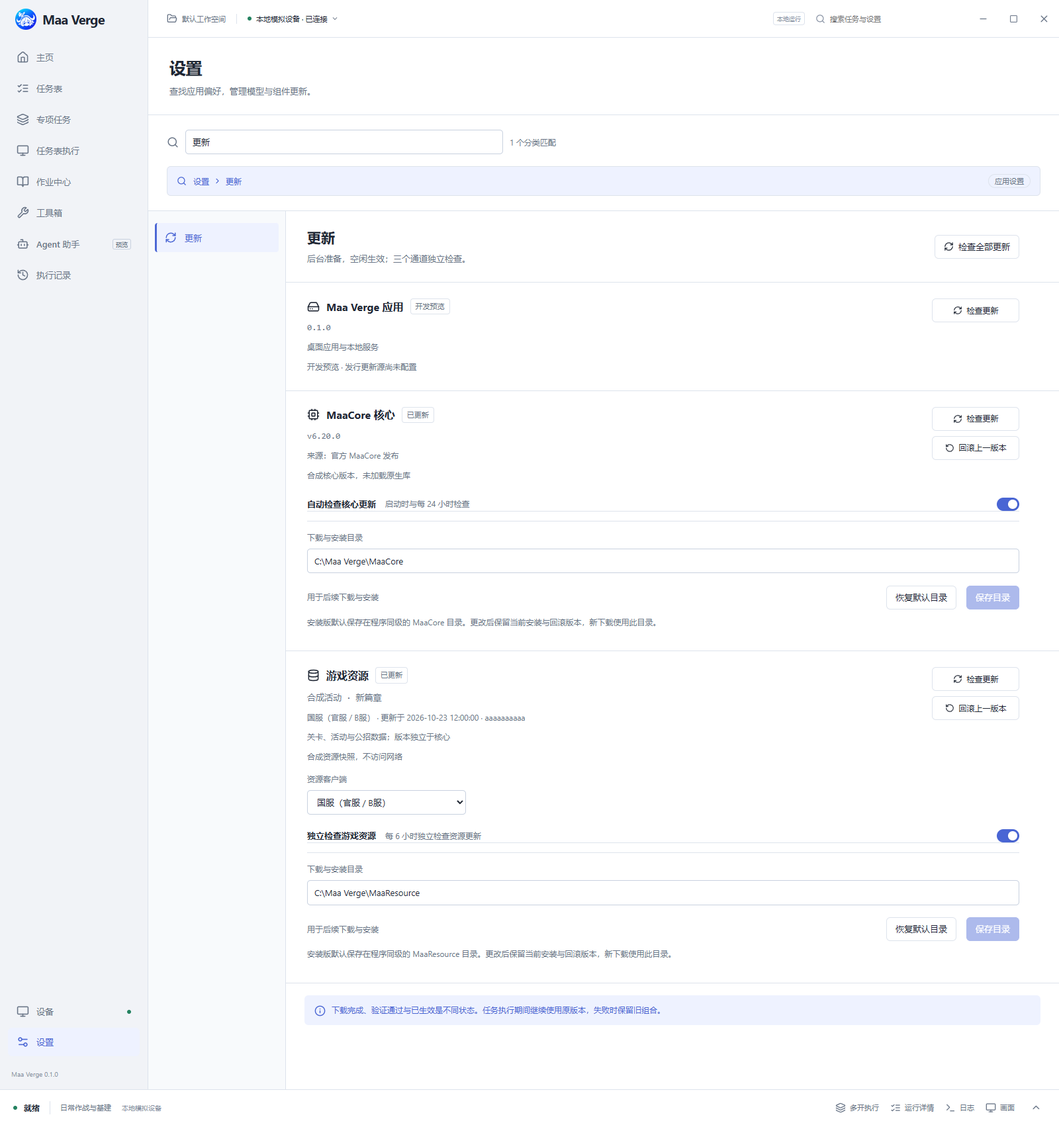
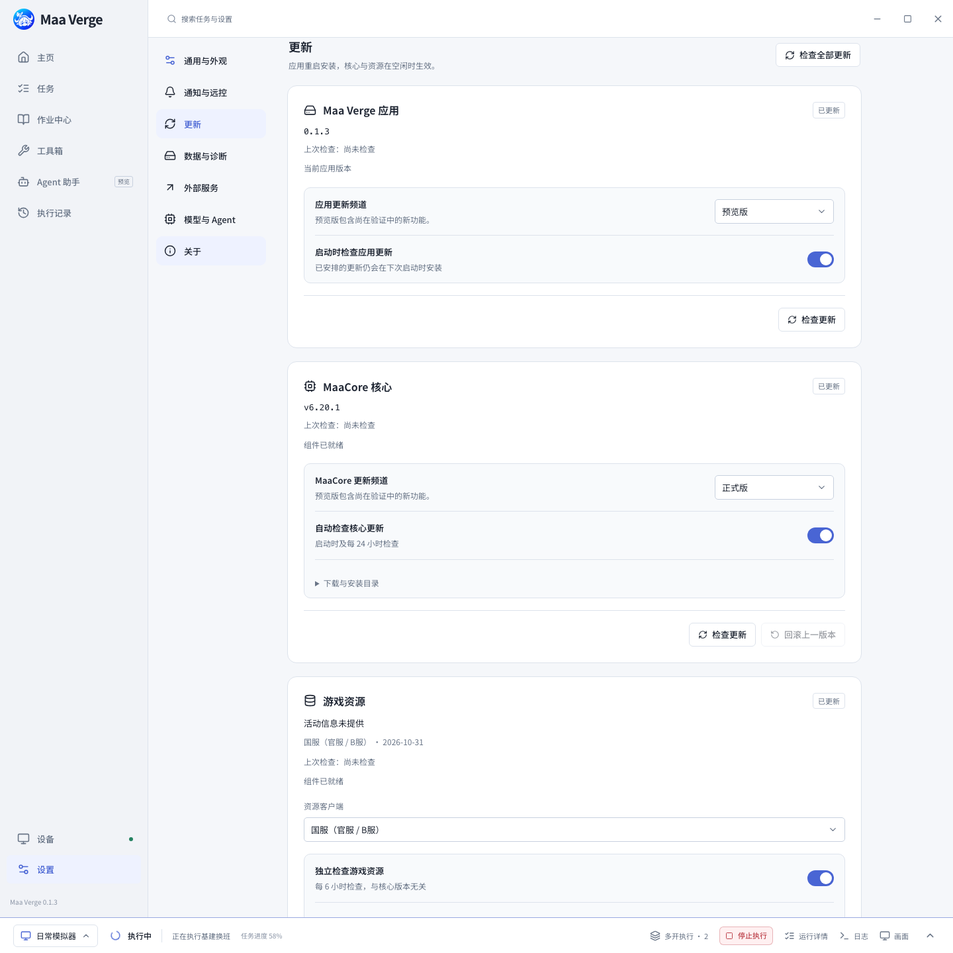
chore(release): 准备正式版并更新使用说明与截图

diff --git a/README.md b/README.md
@@ -13,144 +13,168 @@
   <a href="https://github.com/DeathofBrain/maa-verge/issues">反馈问题</a>
 </p>
 
-Maa Verge 是一款免费开源的明日方舟桌面助手，基于 [MAA](https://github.com/MaaAssistantArknights/MaaAssistantArknights) 的自动化核心。你可以把基建、公招、自动作战等日常安排成任务表，连接模拟器后手动开始，并在软件中查看进度和执行记录。
+Maa Verge 是一款面向 **Windows、macOS 和 Linux** 的免费开源明日方舟桌面助手，基于 [MAA](https://github.com/MaaAssistantArknights/MaaAssistantArknights) 的自动化核心。把基建、公招、自动作战等日常安排成任务表，在一个窗口中连接多个模拟器实例，为各设备选择任务、查看进度并分别停止执行。
 
-> 当前提供 **[v0.1.2 正式版](https://github.com/DeathofBrain/maa-verge/releases/tag/v0.1.2)**，本页的安装与使用说明以该发行版为准。Agent 和部分上游功能仍在开发，完整更新与已知限制见 [版本说明](https://github.com/DeathofBrain/maa-verge/blob/v0.1.2/docs/releases/v0.1.2.md)。
+> 当前版本为 **[v0.1.3 正式版](https://github.com/DeathofBrain/maa-verge/releases/tag/v0.1.3)**，带来新的任务中心、多设备执行监控、作业库与下载更新体验。完整变化和验证边界见[版本说明](https://github.com/DeathofBrain/maa-verge/blob/v0.1.3/docs/releases/v0.1.3.md)。
 
-> 也可体验 **[v0.1.3-alpha.1 预览版](https://github.com/DeathofBrain/maa-verge/releases/tag/v0.1.3-alpha.1)**，包含新的任务中心、设备监控、作业库和下载更新体验。预览版的安装包与界面有调整，升级前请阅读下方预览版说明及[完整版本说明](https://github.com/DeathofBrain/maa-verge/blob/v0.1.3-alpha.1/docs/releases/v0.1.3-alpha.1.md)。
+> **Agent 功能将于后续 v1.0.0 版本推出，敬请期待。** 当前版本暂不提供 AI 托管或视觉自主操作。
 
 ## 下载与安装
 
-从 **[GitHub Releases](https://github.com/DeathofBrain/maa-verge/releases)** 下载软件，也可以点击下表直接下载 v0.1.2 安装包。
+从 **[GitHub Releases](https://github.com/DeathofBrain/maa-verge/releases)** 选择系统与架构，或直接下载下表中的 v0.1.3 安装包。
 
-本项目也已接入 [Mirror酱](https://mirrorchyan.com?source=maa_verge_readme)分发。**Mirror酱在用户端的高速下载是付费服务，需要有效 CDK**；Maa Verge 本身免费开源，GitHub 官方免费下载继续保留。当前开发源码新增的「设置 → 更新 → Mirror酱」共用 CDK 配置及 MaaCore / MaaResource 对应关系见[服务说明](docs/mirrorchyan.md)，这些新增设置尚未包含在上述已发布版本中。
+| 系统目标                                      | 安装包                                                                                                                                                                                                                        | 安装方式                                                   |
+| --------------------------------------------- | ----------------------------------------------------------------------------------------------------------------------------------------------------------------------------------------------------------------------------- | ---------------------------------------------------------- |
+| Windows 10 / 11 · x64                         | [EXE（推荐）](https://github.com/DeathofBrain/maa-verge/releases/download/v0.1.3/Maa-Verge_0.1.3_x64-setup.exe) / [完整 ZIP](https://github.com/DeathofBrain/maa-verge/releases/download/v0.1.3/Maa-Verge_0.1.3_x64-full.zip) | 运行安装程序；ZIP 完全解压到可写目录后运行 `Maa Verge.exe` |
+| macOS 15+ · Apple Silicon（M 系列）           | [DMG · aarch64](https://github.com/DeathofBrain/maa-verge/releases/download/v0.1.3/Maa-Verge_0.1.3_aarch64.dmg)                                                                                                               | 打开映像，将应用拖入「应用程序」                           |
+| macOS 15+ · Intel                             | [DMG · x64](https://github.com/DeathofBrain/maa-verge/releases/download/v0.1.3/Maa-Verge_0.1.3_x64.dmg)                                                                                                                       | 打开映像，将应用拖入「应用程序」                           |
+| Linux · x64（以 Ubuntu 22.04 / 24.04 为目标） | [AppImage](https://github.com/DeathofBrain/maa-verge/releases/download/v0.1.3/Maa-Verge_0.1.3_amd64.AppImage)                                                                                                                 | 赋予执行权限后运行                                         |
 
-v0.1.3-alpha.1 预览版最低支持 **macOS 15（Sequoia）**，适用于 Apple Silicon 和 Intel；当前源码及后续发行包按此要求构建。v0.1.2 正式版的历史构建目标仍为 macOS 13.5。
+Release 页的安装包位于 **Assets**；**Source code** 为源码归档，普通使用无需下载。下载后可用 [SHA256SUMS.txt](https://github.com/DeathofBrain/maa-verge/releases/download/v0.1.3/SHA256SUMS.txt) 核对文件。
 
-| 系统                                | 安装包                                                                                                                                                                                                                                                                                                                       | 安装方式                                                        |
-| ----------------------------------- | ---------------------------------------------------------------------------------------------------------------------------------------------------------------------------------------------------------------------------------------------------------------------------------------------------------------------------- | --------------------------------------------------------------- |
-| Windows x64                         | [EXE（推荐）](https://github.com/DeathofBrain/maa-verge/releases/download/v0.1.2/Maa-Verge_0.1.2_x64-setup.exe) / [MSI](https://github.com/DeathofBrain/maa-verge/releases/download/v0.1.2/Maa-Verge_0.1.2_x64_zh-CN.msi)                                                                                                    | 下载后运行安装程序                                              |
-| macOS 15+ · Apple Silicon（M 系列） | [DMG · aarch64](https://github.com/DeathofBrain/maa-verge/releases/download/v0.1.2/Maa-Verge_0.1.2_aarch64.dmg)                                                                                                                                                                                                              | 打开后将应用拖入「应用程序」                                    |
-| macOS 15+ · Intel                   | [DMG · x64](https://github.com/DeathofBrain/maa-verge/releases/download/v0.1.2/Maa-Verge_0.1.2_x64.dmg)                                                                                                                                                                                                                      | 打开后将应用拖入「应用程序」                                    |
-| Linux x64                           | [AppImage](https://github.com/DeathofBrain/maa-verge/releases/download/v0.1.2/Maa-Verge_0.1.2_amd64.AppImage) / [DEB](https://github.com/DeathofBrain/maa-verge/releases/download/v0.1.2/Maa-Verge_0.1.2_amd64.deb) / [RPM](https://github.com/DeathofBrain/maa-verge/releases/download/v0.1.2/Maa-Verge-0.1.2-1.x86_64.rpm) | AppImage 赋予执行权限后运行；DEB / RPM 使用系统软件包管理器安装 |
+- **游戏与模拟器**：自行安装安卓模拟器和明日方舟，开启 ADB 调试，并完成游戏登录。
+- **首次组件准备**：Windows EXE 默认勾选 MaaCore 与 MaaResource，可按需取消；完整 ZIP 已包含两者。首次启动会校验并导入随附组件。未附带组件时，以及 macOS / Linux 首次使用时，需要联网下载核心和资源，无需另装 Python、Node.js、Bun 或下载工具。
+- **系统依赖**：Windows 使用 WebView2，缺少时安装程序会引导安装，ZIP 用户需自行准备；Linux 需要系统 WebKit / GTK 等桌面库及 AppImage 所需的 FUSE，其他发行版需自行确认依赖。
 
-在 Release 页面下载时，安装包位于 **Assets** 中。**Source code** 是源码压缩包，普通使用无需下载；[SHA256SUMS.txt](https://github.com/DeathofBrain/maa-verge/releases/download/v0.1.2/SHA256SUMS.txt) 可用于核对下载文件。
+Windows 安装包尚无发布者签名；macOS 采用完整的本地签名（ad-hoc），尚无 Developer ID 签名与公证。macOS 首次打开可能需要在「系统设置 → 隐私与安全性」选择「仍要打开」，详见[安装与首次放行](https://github.com/DeathofBrain/maa-verge/blob/v0.1.3/docs/app-updates.md#macos-签名与首次放行)。应用内更新另有更新签名校验，两者用途不同。
 
-安装前请准备好：
-
-- **模拟器与游戏**：自行安装安卓模拟器和明日方舟，在模拟器设置中开启 ADB 调试。
-- **网络连接**：首次运行需要下载 MaaCore 和游戏资源，软件会自动准备，无需手动安装核心，也无需安装 Python、Node.js 或 Bun。
-- **系统组件**：Windows 使用 WebView2，缺少时安装程序会引导安装；Linux 需要系统 WebView 与桌面库，目前以 Ubuntu 22.04 / 24.04 x64 为目标，其他发行版需自行确认依赖。
-
-Windows 安装包尚无发布者签名；macOS 已采用完整的本地签名（ad-hoc），但尚无 Developer ID 签名与公证，首次打开可能需要在「系统设置 → 隐私与安全性」明确放行，详见 [macOS 安装说明](https://github.com/DeathofBrain/maa-verge/blob/v0.1.2/docs/app-updates.md#macos-签名与首次放行)。应用内更新会校验独立的更新签名；这与系统发布者签名不同。各平台的已知限制见版本说明。
-
-<details>
-<summary>体验 v0.1.3-alpha.1 预览版</summary>
-
-从[预览版 Release](https://github.com/DeathofBrain/maa-verge/releases/tag/v0.1.3-alpha.1) 下载对应系统与架构的安装包，包型及完整下载表见[本版下载与安装说明](https://github.com/DeathofBrain/maa-verge/blob/v0.1.3-alpha.1/docs/releases/v0.1.3-alpha.1.md#下载与安装)。Windows 提供 EXE 与完整 ZIP，不再提供 MSI；macOS 需要 15 或更新版本，Linux 继续提供 AppImage、DEB 与 RPM。
-
-- **安装与升级**：完全退出旧版，备份整个 `config` 和已有作业 JSON 目录。Windows EXE 默认选中 MaaCore 与 MaaResource 离线组件，可按需取消；完整 ZIP 包含两者，完全解压到可写目录后运行 `Maa Verge.exe`。首次启动会校验并导入随附组件；未附带组件时仍需联网下载。旧 MSI 用户须先卸载旧版，再安装 EXE 或使用 ZIP；安装过未公开的 `v0.1.3-alpha1` 测试包时，请手动安装本版。升级渠道与备份细节见[升级说明](https://github.com/DeathofBrain/maa-verge/blob/v0.1.3-alpha.1/docs/releases/v0.1.3-alpha.1.md#升级说明)。
-- **任务与设备**：从「任务」管理任务表，勾选后点击「运行」，在同页「执行监控」查看设备进度；底栏左侧切换设备后，可打开对应运行详情、日志与画面。
-- **下载与更新**：应用、MaaCore 和游戏资源统一使用内置 HTTP 下载，无需 aria2。在「设置 → 更新 → 下载代理」选择自动、手动 HTTP/HTTPS 代理或直连，下载时显示速度并支持续传。应用更新下载校验后可选择「立即更新并重启」或「下次启动时更新」；后者需真正退出并重新打开，最小化到托盘不会安装。ZIP 版仍需手动更新，详见[本版更新说明](https://github.com/DeathofBrain/maa-verge/blob/v0.1.3-alpha.1/docs/app-updates.md)。
-
-预览版 Agent 仍暂不可用，真实游戏与各平台升级的验证范围见[已知问题与限制](https://github.com/DeathofBrain/maa-verge/blob/v0.1.3-alpha.1/docs/releases/v0.1.3-alpha.1.md#已知问题与限制)。下文功能与操作步骤继续以 v0.1.2 正式版为准。
-
-</details>
+也可在「设置 → 更新 → Mirror酱」配置 [Mirror酱](https://mirrorchyan.com?source=maa_verge_readme)。**Mirror酱用户端的高速下载是付费服务，需要有效 CDK**；Maa Verge 本身免费开源，GitHub 官方免费下载继续保留，详见[服务说明](https://github.com/DeathofBrain/maa-verge/blob/v0.1.3/docs/mirrorchyan.md)。
 
 ## 能做什么
 
-- **安排日常任务**：在同一张表中添加、复制和排序任务，分别设置参数，按需启用或关闭；编辑后自动保存，常用操作也可通过右键菜单完成。
-- **管理与执行作业**：在「作业中心」导入本地或 PRTS Plus 的普通、保全、悖论作业及作业集，查看详情、安排独立队列并保留来源署名。
-- **同时监控多次执行**：在总览中筛选和搜索任务表、设备与执行结果，逐个查看进度、材料掉落、基建反馈与失败原因，分别停止任务；模拟器画面按需打开。
-- **管理模拟器多开**：为各实例保存连接配置，分别开始任务、查看进度和停止执行。
-- **下载与更新**：v0.1.2 内置 aria2，组件下载中断后可重试续传；应用、MaaCore 和游戏资源分别更新，组件更新在空闲时生效。
-- **使用独立工具**：在「工具箱」选择设备，识别仓库与干员、计算公招标签或按目标补货，查看上次成功采集的数据并导出 JSON、Markdown、CSV 等格式。
-- **设置每日定时**：为已保存的任务表选择设备和时间，按电脑本地时间每天执行；Windows 还提供默认关闭的提前唤醒选项。
-- **保留本地记录**：任务表、设置与执行记录保存在本机；主页提供近期执行、活动日历和组件版本，支持浅色与深色主题。
+- **安排日常任务**：创建、复制和排序任务表，逐项设置参数与启停状态；编辑后自动保存，常用操作可通过右键菜单完成。
+- **在一个窗口中管理多开**：保存各模拟器实例的连接设置，一张任务表可在多个设备上独立执行，也可为不同设备安排不同任务表。
+- **按设备查看执行**：在「任务 → 执行监控」切换设备，查看任务进度、材料掉落、基建反馈与失败原因；底栏随时打开运行详情、日志和画面，支持单独或批量停止。
+- **管理与执行作业**：从本地 JSON 或 PRTS Plus 预览导入普通、保全、悖论作业与作业集，整理本地分类、批量入队，保留来源署名并查看干员需求。
+- **使用工具与每日定时**：识别仓库与干员、计算公招标签、按目标补货，为已保存的任务表安排每日执行；识别结果保留采集时间并可导出。
+- **分别更新软件、核心和资源**：统一下载代理、进度与安全续传，核心和资源在设备空闲时生效；本地保存任务表、设置和执行记录，支持浅色与深色主题。
 
-> **Agent 助手是后续主要开发目标之一，目前暂不可用，敬请谅解。**
+> **基建估算目前为草稿模块，更多、更全面的功能尚待开发。**
+
+### 平台与模拟器
+
+三平台共用任务表、作业库和多设备管理界面，**通用连接方式为 ADB**；具体模拟器能否使用，还取决于它在对应系统上的版本与 ADB 支持。
+
+| 模拟器 / 连接方式                  | 当前接入能力                                                   | 使用边界                                                                            |
+| ---------------------------------- | -------------------------------------------------------------- | ----------------------------------------------------------------------------------- |
+| Windows MuMu                       | 读取已启动实例的名称、编号与实际 ADB 地址，可自动配置增强截图  | 支持不同安装目录和非默认端口；增强截图需匹配本机 SDK 与实例                         |
+| Windows 雷电                       | 根据实例信息及端口归属发现设备，可自动配置增强截图             | 需匹配运行实例与本机 SDK；真实设备验收仍待完成                                      |
+| BlueStacks、夜神等 ADB 模拟器      | 查找常见 ADB 路径及已知本机地址；BlueStacks 可读取实例端口配置 | 自动识别失败时手动填写地址与 ADB，具体系统和版本需自行确认                          |
+| 其他可通过 ADB 访问的模拟器 / 设备 | Windows、macOS、Linux 均可手动配置连接                         | 增强截图仅适用于上述 Windows MuMu / 雷电；PlayCover 与 Windows 原生游戏窗口尚未接入 |
+
+当前实机记录覆盖**一个 Windows MuMu 实例的连接与增强截图**；真实多开、雷电、不同游戏客户端及 macOS / Linux 的设备操作仍待分别验收。平台目标与合成测试通过不代表所有模拟器均已实测，详细条件见[连接说明](https://github.com/DeathofBrain/maa-verge/blob/v0.1.3/docs/emulator-connection.md)与[多开说明](https://github.com/DeathofBrain/maa-verge/blob/v0.1.3/docs/multi-instance.md)。Maa Verge 管理的是已启动实例，不自动创建或启停模拟器。
 
 ### 界面预览
 
-以下均为测试数据截图，不含真实账号信息。主页与任务表截图来自 v0.1.0，展示基础布局；执行监控截图展示 v0.1.1 界面。
+以下图片均为 **v0.1.3 的合成测试数据截图**，不含真实账号信息，不代表真实设备或游戏执行结果。
 
-![Maa Verge 主页：执行记录、活动日历与设备状态](docs/images/mock-workspace.png)
+![Maa Verge 主页：近期执行、活动日历与设备状态](docs/images/mock-workspace.png)
 
 <details>
-<summary>任务表：安排任务与设置作战参数</summary>
+<summary>任务中心：配置任务表与查看多设备执行</summary>
 
-![任务表与自动作战设置](docs/images/mock-task-preparation.png)
+![任务中心与任务详情](docs/images/mock-task-preparation.png)
+
+![多设备执行监控](docs/images/mock-execution-monitor.png)
 
 </details>
 
 <details>
-<summary>执行监控：同时查看多张任务表与不同设备</summary>
+<summary>作业中心与模拟器实例配置</summary>
 
-![任务表执行监控总览](docs/images/mock-execution-monitor.png)
+![作业中心：社区搜索、导入记录与执行队列](docs/images/mock-copilot-center.png)
+
+![多模拟器实例配置](docs/images/mock-devices.png)
+
+</details>
+
+<details>
+<summary>软件、核心与游戏资源更新</summary>
+
+![组件更新与下载设置](docs/images/mock-component-updates.png)
+
+</details>
+
+<details>
+<summary>Windows、macOS 与 Linux 界面</summary>
+
+以下为同一测试场景在 Chromium 中模拟平台差异的界面展示，不代表在三个系统上的原生运行或实机验证。
+
+![Windows 平台界面展示](docs/images/mock-platform-windows.png)
+
+![macOS 平台界面展示](docs/images/mock-platform-macos.png)
+
+![Linux 平台界面展示](docs/images/mock-platform-linux.png)
 
 </details>
 
 ## 快速开始
 
-1. **启动模拟器**。确认已安装游戏、开启 ADB 调试，并完成需要手动处理的登录。
-2. **打开 Maa Verge**。首次运行等待 MaaCore 与基础资源下载安装完成，可在「设置 → 更新」查看状态。
-3. **连接设备**。进入「设备 → 当前设备」，点击「自动连接模拟器」，或先「发现设备」再连接对应条目。多开时在「多开管理」保存各实例配置，并核对当前选择的设备。
-4. **配置任务表**。进入「任务表」，通过侧栏「添加任务表」（＋）创建，按需启停各项任务，检查游戏客户端、关卡、次数及理智药和源石数量；编辑后自动保存，开始前确认顶部显示「已保存」。
-5. **开始日常**。点击「开始日常」，开始后在「任务表执行」查看本次详情，点击「返回监控总览」可同时查看各设备的执行。底部「画面」可打开预览，「停止执行」会结束当前队列，历史结果保存在「执行记录」中。
+1. **启动模拟器**。开启 ADB 调试，打开游戏并完成需要手动处理的登录。
+2. **打开 Maa Verge**。等待首次组件准备完成，可在「设置 → 更新」查看状态。
+3. **连接设备**。进入「设备」，点击「发现设备」并连接对应条目，也可使用自动连接。多开时通过「管理多开」保存各实例设置，核对实例名称、地址与当前设备。
+4. **配置任务表**。进入「任务」，点击「新建任务表」，添加并安排任务，检查客户端、关卡、次数及理智药和源石数量；编辑后自动保存，开始前确认显示「已保存」。
+5. **开始与查看结果**。点击任务表的「开始执行」，选择设备；也可勾选多张表后点击「运行」。在「执行监控」查看各设备状态，通过底栏打开日志与画面，历史结果保存在「执行记录」。
 
-新建任务默认不使用理智药或源石，需要时在自动作战任务中明确设置数量。未配置定时计划时，任务需要手动开始；如需每天自动执行，请在已保存任务表的「定时计划」中明确选择设备和时间。
+新建任务默认不使用理智药或源石，使用前须明确设置数量。消耗额度按**每次执行**分别授权，同一张表在多个设备运行时，各次执行会分别使用自己的额度。**停止会结束并清空当前原生任务队列，不支持暂停后续跑。**
 
-使用多开时，先在模拟器管理器中启动各实例，连接后从「任务表执行 → 实例启动」或底部「多开执行」为设备选择任务表并开始。同一设备请只交给一个助手控制。
+要在多个实例上运行同一张任务表，可在启动窗口多选设备；常用组合可保存为任务表与设备的绑定。每台设备同一时间只能执行一项任务，也请只交给一个助手控制。未配置定时计划时，任务需手动开始。
 
-更多用法：[任务设置](https://github.com/DeathofBrain/maa-verge/blob/v0.1.2/docs/maa-task-settings.md) · [模拟器连接](https://github.com/DeathofBrain/maa-verge/blob/v0.1.2/docs/emulator-connection.md) · [多开说明](https://github.com/DeathofBrain/maa-verge/blob/v0.1.2/docs/multi-instance.md) · [工具箱与定时](https://github.com/DeathofBrain/maa-verge/blob/v0.1.2/docs/toolbox-schedules.md)
+更多用法：[任务设置](https://github.com/DeathofBrain/maa-verge/blob/v0.1.3/docs/maa-task-settings.md) · [设备绑定](https://github.com/DeathofBrain/maa-verge/blob/v0.1.3/docs/task-device-bindings.md) · [多开说明](https://github.com/DeathofBrain/maa-verge/blob/v0.1.3/docs/multi-instance.md) · [工具箱与定时](https://github.com/DeathofBrain/maa-verge/blob/v0.1.3/docs/toolbox-schedules.md)
 
 ## 常见问题
 
 ### 找不到或连不上模拟器怎么办？
 
-确认模拟器已启动、ADB 调试已开启，再到「设备」重新发现并连接。自动识别失败时，可在设备页手动填写连接地址，并选择模拟器自带的 ADB。修改连接配置后，先停止任务、断开，再重新连接。具体设置见 [连接说明](https://github.com/DeathofBrain/maa-verge/blob/v0.1.2/docs/connection-settings.md)。
+确认模拟器已启动、ADB 调试已开启，并处理模拟器里的授权提示，再到「设备」重新发现。自动识别失败时，手动填写连接地址并选择模拟器自带的 ADB。修改配置后先停止任务、断开，再重新连接；增强截图失败时可明确改选 ADB，详见[连接设置](https://github.com/DeathofBrain/maa-verge/blob/v0.1.3/docs/connection-settings.md)。
 
-### MaaCore 或资源下载失败怎么办？
+### 下载失败或速度较慢怎么办？
 
-在「设置 → 更新」查看失败原因，检查网络和目录写入权限，再重试下载。v0.1.2 安装包自带 aria2，无需另行安装；也可以在设置中选择内置 HTTP 下载器。核心与资源默认放在程序同级的 `MaaCore`、`MaaResource` 文件夹，目录不可写时可分别改为可写目录。组件文件被误删或损坏时，先按页面提示修复。
+在「设置 → 更新」查看错误和实际下载来源，检查网络及目录写入权限，再重试。应用、核心和资源共用内置 HTTP 下载及「下载代理」，可选择自动、手动 HTTP/HTTPS 代理或直连；中断后会核对文件来源再尝试续传。Mirror酱为可选付费加速来源，官方免费来源继续保留。
 
 ### 软件、核心和游戏资源怎么更新？
 
-v0.1.1 用户可在「设置 → 更新」下载并校验 v0.1.2，停止任务、关闭实时画面，并等待连接和组件操作空闲后确认「重启并安装」。**v0.1.0 用户须先完全退出应用，再从 [Releases](https://github.com/DeathofBrain/maa-verge/releases) 手动安装 v0.1.2。** macOS v0.1.1 无法启动时，可直接下载对应架构的 v0.1.2 DMG 替换安装；Linux DEB / RPM 继续通过包管理器或安装包更新。
+在「设置 → 更新」分别检查。应用更新下载并校验后，可选择「立即更新并重启」或「下次启动时更新」；后者须真正退出再打开，最小化到托盘不会安装。Windows EXE、macOS DMG、Linux AppImage 使用对应完整安装包更新，ZIP 版须备份后手动更新。
 
-应用和 MaaCore 可分别选择正式版或预览版。MaaCore 与游戏资源各自准备更新，等待空闲生效；核心已经是最新版时，游戏资源仍可能有更新。v0.1.2 的应用更新不支持断点续传，组件下载支持。
+**旧 MSI、Linux DEB / RPM 及仅支持旧更新归档的 macOS 版本需手动迁移一次**，具体步骤见[本版升级说明](https://github.com/DeathofBrain/maa-verge/blob/v0.1.3/docs/releases/v0.1.3.md#升级说明)。安装前完全退出并备份，macOS 需确认系统为 15 或更新版本。
+
+应用、MaaCore 和游戏资源独立管理，核心已是最新版时仍可能有资源更新。核心与资源等待所有设备安全空闲后切换，失败时保留原组合；应用内版本回滚暂不支持。
 
 ### 支持定时执行和 AI 托管吗？
 
-支持每日定时，AI 托管尚未开放。在已保存任务表的「定时计划」中添加设备和时间，应用运行期间会按电脑本地时间触发；普通定时遇到设备忙时跳过，退出或休眠期间错过的触发不补跑。
+支持每日定时，AI 托管尚未开放。在已保存任务表的「定时计划」中选择设备和时间，应用运行期间按电脑本地时间触发；普通定时遇到设备忙时跳过，退出或休眠期间错过的触发不补跑。
 
-Windows 可在该页启用默认关闭的提前唤醒选项，是否真正唤醒受硬件和电源策略影响；macOS / Linux 不支持系统唤醒。实际休眠恢复与定时游戏流程仍待验收，使用与限制见 [工具箱与定时计划](https://github.com/DeathofBrain/maa-verge/blob/v0.1.2/docs/toolbox-schedules.md)。
+Windows 提供默认关闭的提前唤醒选项，受硬件和电源策略影响，实际休眠恢复与定时游戏流程仍待验收；macOS / Linux 不支持系统唤醒。详见[定时使用与限制](https://github.com/DeathofBrain/maa-verge/blob/v0.1.3/docs/toolbox-schedules.md)。**Agent 功能将于后续 v1.0.0 版本推出，敬请期待。**
 
-### 配置和执行记录如何备份？
+### 配置、作业和执行记录如何备份？
 
-先**完全退出应用**，再备份程序目录下的整个 `config` 文件夹。数据库、执行记录和截图位于其中的 `native` 子目录；手动指定过数据目录时，以实际目录为准。macOS 的 `config` 与应用包并列，AppImage 的 `config` 与 AppImage 并列。
+**完全退出应用**后，备份整个 `config` 文件夹，以及自行选择的作业 JSON 目录。默认 `config` 与程序并列：macOS 位于 `.app` 同级，Linux 位于 AppImage 同级；数据库、执行记录和结果截图在其中的 `native` 子目录。使用自定义数据根时以实际位置为准，可在「设置 → 数据与诊断 → 配置文件」查看和选择下次启动的位置，选择目录不会自动搬移旧数据。
 
-从 v0.1.0 升级后，首次启动会在新位置尚无数据库时导入旧数据，并保留旧目录。升级前请先备份旧版的 `MAAVerge/native`：Windows 位于 `%LOCALAPPDATA%`，macOS 位于 `~/Library/Application Support`，Linux 位于 `~/.local/share`（或 `XDG_DATA_HOME` 指定的位置）。程序目录不可写时会提示错误，可使用 `MAAVERGE_DATA_DIR` 指定可写位置，详见 [数据目录与迁移](https://github.com/DeathofBrain/maa-verge/blob/v0.1.2/docs/runtime-migration.md#数据交接与回退)。
+从 v0.1.0 升级或迁移电脑时，请一并保留旧数据和仍被引用的自定义组件目录，详见[数据目录与迁移](https://github.com/DeathofBrain/maa-verge/blob/v0.1.3/docs/runtime-migration.md#数据交接与回退)。
+
+### macOS 卸载后为什么还有核心和资源？
+
+macOS 默认将核心和资源保存在用户的 `Library/Application Support/Maa Verge/`，与应用包分开。可通过「设置 → 关于 → 卸载 Maa Verge」将当前应用及默认组件移到废纸篓，保留配置和自定义目录；直接在 Finder 删除应用不会清理组件。详见[组件目录](https://github.com/DeathofBrain/maa-verge/blob/v0.1.3/docs/maacore-runtime.md#下载与安装目录)。
 
 ### 会向外部服务发送数据吗？
 
-设置与执行记录保存在本机。活动日历、组件下载和更新需要访问对应网络服务；社区作业的搜索、预览和导入会访问 PRTS Plus，手动评价或启用默认关闭的通关后自动点赞会向该服务提交评价。新建自动作战任务的掉落汇报选项与原版 MAA 默认一致，可在任务设置中关闭向企鹅物流和一图流汇报。
+设置与执行记录保存在本机。活动日历、下载和更新会访问相应网络服务；社区作业搜索、预览和导入会访问 PRTS Plus，手动评价或启用默认关闭的通关后自动点赞会向该服务提交评价。新建自动作战任务的掉落汇报与原版 MAA 默认一致，可在任务设置中关闭向企鹅物流和一图流汇报。
 
 ## 遇到问题
 
-欢迎在 **[GitHub Issues](https://github.com/DeathofBrain/maa-verge/issues)** 反馈，请尽量附上：
+欢迎在 **[GitHub Issues](https://github.com/DeathofBrain/maa-verge/issues)** 反馈，请附上：
 
 - 系统版本、Maa Verge 版本，以及设置中显示的 MaaCore 和资源版本。
 - 模拟器名称与版本、复现步骤、预期结果和实际提示。
-- 必要的错误截图与日志。在「设置 → 数据与诊断」中点击「导出日志」，完成提示会显示文件位置；日志保留期和清理也可在该页设置。
+- 必要的错误截图与日志，可在「设置 → 数据与诊断」点击「导出日志」获取。
 
 分享前请检查截图与记录中的账号、凭据和本地路径等个人信息。
 
 ## 参与与致谢
 
-想参与开发或从源码构建，请阅读 [贡献指南](CONTRIBUTING.md) 和 [开发文档](docs/development.md)。开发进展见 [开发状态](docs/STATUS.md)，后续路线见 [项目计划](PLAN.md)。
+参与开发或从源码构建，请阅读[贡献指南](CONTRIBUTING.md)和[开发文档](docs/development.md)。开发进展见[开发状态](docs/STATUS.md)，后续路线见[项目计划](PLAN.md)。
 
-感谢 [MaaAssistantArknights](https://github.com/MaaAssistantArknights/MaaAssistantArknights) 提供的自动化核心，以及 [MaaResource](https://github.com/MaaAssistantArknights/MaaResource) 的游戏资源。
+感谢 [MaaAssistantArknights](https://github.com/MaaAssistantArknights/MaaAssistantArknights) 提供自动化核心，以及 [MaaResource](https://github.com/MaaAssistantArknights/MaaResource) 提供游戏资源。
 
 Maa Verge 采用 [AGPL-3.0-only](LICENSE) 开源协议，是独立社区项目，不代表明日方舟官方或 MaaAssistantArknights 官方客户端。
 

diff --git a/docs/releases/v0.1.3.md b/docs/releases/v0.1.3.md
@@ -1,0 +1,98 @@
+## Maa Verge v0.1.3
+
+本次正式版更新任务中心、多设备执行监控与作业库，并带来统一下载代理、Mirror酱加速和完整安装包更新。
+
+> **重要提示**：升级前请备份配置与作业文件；macOS 最低支持版本为 15（Sequoia），旧 macOS 客户端需手动安装一次新版 DMG。Windows 不再提供 MSI，Linux 不再提供 DEB / RPM。Windows 安装包尚无 Authenticode 发布者签名，macOS 采用 ad-hoc 签名、尚无 Developer ID 签名与公证；应用更新签名与系统发行签名分别管理。
+
+### 下载与安装
+
+| 平台            | 架构                   | 安装包                                                                                                                                                                                                                                      |
+| --------------- | ---------------------- | ------------------------------------------------------------------------------------------------------------------------------------------------------------------------------------------------------------------------------------------- |
+| Windows 10 / 11 | x64                    | [EXE（推荐，可选完整组件）](https://github.com/DeathofBrain/maa-verge/releases/download/v0.1.3/Maa-Verge_0.1.3_x64-setup.exe) / [完整 ZIP](https://github.com/DeathofBrain/maa-verge/releases/download/v0.1.3/Maa-Verge_0.1.3_x64-full.zip) |
+| macOS 15+       | Apple Silicon（arm64） | [DMG](https://github.com/DeathofBrain/maa-verge/releases/download/v0.1.3/Maa-Verge_0.1.3_aarch64.dmg)                                                                                                                                       |
+| macOS 15+       | Intel（x64）           | [DMG](https://github.com/DeathofBrain/maa-verge/releases/download/v0.1.3/Maa-Verge_0.1.3_x64.dmg)                                                                                                                                           |
+| Linux           | x64                    | [AppImage](https://github.com/DeathofBrain/maa-verge/releases/download/v0.1.3/Maa-Verge_0.1.3_amd64.AppImage)                                                                                                                               |
+
+[SHA-256 校验清单](https://github.com/DeathofBrain/maa-verge/releases/download/v0.1.3/SHA256SUMS.txt) · [全部下载文件](https://github.com/DeathofBrain/maa-verge/releases/tag/v0.1.3)
+
+Windows 使用 WebView2；EXE 默认勾选 MaaCore 与 MaaResource 离线组件，可按需取消，MaaResource 需同时选择 MaaCore。完整 ZIP 包含两者，完全解压到可写目录后运行 `Maa Verge.exe`，系统仍须具有 WebView2。首次启动会校验并导入随附组件，已有组件保持不变。未附带组件时，以及 macOS / Linux 首次使用时，需要联网下载核心和资源。
+
+macOS 覆盖 Apple Silicon 和 Intel，最低支持 15；首次安装请从 DMG 将应用拖到「应用程序」，再按系统提示放行，详见[签名与首次打开](https://github.com/DeathofBrain/maa-verge/blob/v0.1.3/docs/app-updates.md#macos-签名与首次放行)。Linux 以 Ubuntu 22.04 / 24.04 x64 为目标，需要系统 WebKit / GTK 等桌面库及 AppImage 所需的 FUSE，其他发行版需自行确认依赖。
+
+用户无需另装 Python、Node、Bun 或下载工具。Source code 为源码归档；`.sig` 和 `latest.json` 用于更新校验，首次安装请选择上表文件。macOS 应用内更新复用完整 DMG，不再提供专用更新归档。
+
+### 升级说明
+
+1. **先备份**：完全退出旧版本，备份整个 `config/`、已有作业 JSON 目录及自定义组件文件；数据位置与迁移规则见[迁移与备份说明](https://github.com/DeathofBrain/maa-verge/blob/v0.1.3/docs/runtime-migration.md)。
+2. **Windows**：v0.1.1 / v0.1.2 / v0.1.3-alpha.1 的 EXE 用户可在「设置 → 更新」检查本版；旧 MSI 用户须先卸载旧版，再安装 EXE 或使用完整 ZIP。ZIP 版须退出、备份后手动更换文件，v0.1.0 用户须手动安装。
+3. **macOS**：确认系统为 15 或更新版本；v0.1.2、v0.1.3-alpha.1 及更旧客户端仅支持旧更新归档，须从本页下载对应架构的 DMG 手动安装一次，之后使用新的签名 DMG 更新流程。
+4. **Linux**：AppImage 用户可检查应用更新；旧 DEB / RPM 用户须保留配置并手动迁移至 AppImage。
+5. **下载与安装设置**：原下载器偏好不再使用，如需代理，请在「设置 → 更新 → 下载代理」选择自动、手动 HTTP/HTTPS 代理或直连。选择「下次启动时更新」后须真正退出再打开，最小化到托盘不会安装。
+
+任务表统一从「任务」进入，单表点击「开始执行」，或勾选多张表后点击「运行」；每张表可选择多个设备独立执行，进度在同页「执行监控」查看。停止会结束并清空当前原生队列，不支持暂停后续跑。默认理智药与源石预算为零，多设备执行会分别使用各次授权额度。
+
+### 已知问题与限制
+
+- **Agent 功能将于后续 v1.0.0 版本推出，敬请期待。** 当前版本暂不提供 AI 托管、云模型或视觉自主操作。
+- **基建估算目前为草稿模块，更多、更全面的功能尚待开发。**
+- 当前实机记录覆盖一个 Windows MuMu 实例的连接与增强截图；真实多开、雷电、不同游戏客户端及 macOS / Linux 的设备操作尚待分别验收，完整原 MAA 功能仍在补齐，PlayCover 与 Windows 原生游戏窗口尚未接入。
+- MuMu / 雷电增强截图仅适用于受支持的 Windows SDK 与已核实实例，增强接口失败会报错，可手动改选 ADB；MuMu 增强触控仍为未实机验收的实验功能。
+- 作业中心尚不支持社区账号、收藏 / 发布、作业编辑器及离线视频识别；普通多作业限同区域且整体单次，保全限单份，缺少明确战斗证据时显示通关未确认。干员标注依赖所选设备最近识别快照，绿色不代表所有技能、专精和模组要求均已核验。
+- 仓库与干员为带采集时间的识别快照，库存保持依赖识别及已确认掉落；小游戏核心流程结束不代表已经获得游戏奖励。
+- 定时要求应用运行，错过的触发不补跑；Windows 提前唤醒默认关闭，受硬件与电源策略影响，真实休眠恢复和定时游戏流程仍待验收，macOS / Linux 不支持系统唤醒。
+- 应用内版本回滚、下载缓存自动清理及多连接下载尚未提供；Linux 桌面系统代理、PAC / WPAD 与纯 SOCKS 暂不解析，实际网络表现取决于环境。Mirror酱高速下载需要付费 CDK，官方免费来源继续保留。
+- Windows 发布者签名、macOS Developer ID 签名与公证，以及最低系统、首次系统放行和三平台真实升级安装仍需验收；日志与结果截图分享前请检查个人信息。
+
+问题反馈：[提交 Issue](https://github.com/DeathofBrain/maa-verge/issues)，请提供应用版本、系统、模拟器、MaaCore / 资源版本、复现步骤与脱敏日志。
+
+---
+
+<details open>
+<summary><b>v0.1.3（2026-10-31）更新内容</b></summary>
+
+### 新增 | New
+
+- 新增任务中心、任务详情抽屉与按设备组织的执行监控，支持任务表批量执行、批量删除及独立停止。
+- 新增任务表与设备多对多绑定，同一张表可在多个模拟器实例上独立执行。
+- 新增作业库分类、批量管理、导入预览、社区排序和关卡补全，并展示所选设备的干员持有与练度信息。
+- 新增统一下载代理、安全断点续传、下载速度与实际来源展示，应用、核心和资源共用内置 HTTP 下载。
+- 接入 Mirror酱安装包分发（[#2](https://github.com/DeathofBrain/maa-verge/pull/2)） [@MirrorChyanDesu](https://github.com/MirrorChyanDesu)。
+- 新增应用、MaaCore 与 MaaResource 共用的 Mirror酱 CDK 设置，并保留官方免费来源。
+- 新增 Windows 可选离线组件与完整 ZIP，以及完整 EXE、分架构 DMG、AppImage 的签名应用更新。
+- 新增 macOS DMG 拖拽安装界面、独立组件目录及保留配置的应用内卸载入口。
+
+### 改进 | Improved
+
+- 设置统一自动保存并支持原生目录选择，可选择下次启动的数据根。
+- 优化底栏设备切换、日志与画面抽屉、深浅主题及键盘操作，并支持拖拽调整侧栏宽度。
+- 优化离线检测、自动重连与历史设备管理，Windows MuMu / 雷电按运行实例核实连接和截图配置。
+- 应用更新支持下载后立即安装或下次启动时安装，失败后保留已验证安装包供手动重试。
+- 核心与资源更新展示校验和切换进度，减少重复读取，并在所有设备安全空闲后激活。
+
+### 修复 | Fix
+
+- 修复连接已成功后仍误报超时及残留连接错误的问题。
+- 修复组件切换重建不必要的离线连接，以及有效更新候选被误清理的问题。
+- 修复系统通知图标与发送者身份不正确的问题。
+- 修复弹层焦点、退出清理和更新取消时序，避免页面失去响应或残留本次工作进程。
+
+</details>
+
+<details>
+<summary><b>许可与对应源码</b></summary>
+
+Maa Verge 自有代码采用 [AGPL-3.0-only](https://github.com/DeathofBrain/maa-verge/blob/v0.1.3/LICENSE)；本版源码、依赖锁文件与构建配置见 [v0.1.3 标签](https://github.com/DeathofBrain/maa-verge/tree/v0.1.3)，也可下载本页 Source code 归档。第三方许可随包保存在 `runtime/licenses/`，MaaCore 许可随核心目录保留；社区作业、游戏素材及其他第三方内容遵循各自声明，不因导入而改用本项目许可，详见[第三方声明](https://github.com/DeathofBrain/maa-verge/blob/v0.1.3/NOTICE.md)。
+
+嵌入运行时为 [Bun bun-v1.4.3](https://github.com/oven-sh/bun/tree/bun-v1.4.3)，JavaScriptCore / WebKit 固定源码为 [0c06faadf65bf8e8c8ad3a5a8aca83e1e9ed653f](https://github.com/oven-sh/WebKit/tree/0c06faadf65bf8e8c8ad3a5a8aca83e1e9ed653f)；源码重建与替换引擎步骤见[运行时迁移说明](https://github.com/DeathofBrain/maa-verge/blob/v0.1.3/docs/runtime-migration.md#许可对应源码与重新构建)。Noto Sans SC 字体采用 OFL-1.1，许可随包提供。
+
+</details>
+
+**完整变更**：[v0.1.2 → v0.1.3](https://github.com/DeathofBrain/maa-verge/compare/v0.1.2...v0.1.3)
+
+### 上游引用与版权
+
+- 上游项目：[MAA / MaaAssistantArknights](https://github.com/MaaAssistantArknights/MaaAssistantArknights)，本项目复用 MaaCore 自动化核心，参考上游任务协议、连接配置与 Release 说明结构。
+- 游戏资源来源：[MaaResource](https://github.com/MaaAssistantArknights/MaaResource)，仓库许可见其 [LICENSE](https://github.com/MaaAssistantArknights/MaaResource/blob/main/LICENSE)，游戏素材及第三方内容保留各自的版权与授权声明。
+- MAA / MaaCore 开源代码版权归上游原作者及贡献者所有，依据 [AGPL-3.0-only](https://github.com/MaaAssistantArknights/MaaAssistantArknights/blob/v6.20.1/LICENSE) 使用；Maa Verge 自有代码版权归本项目贡献者所有，同样采用 AGPL-3.0-only。
+
+Maa Verge 为独立项目，不代表游戏官方或 MaaAssistantArknights 官方客户端。

diff --git a/docs/STATUS.md b/docs/STATUS.md
@@ -1,8 +1,18 @@
 # 开发状态
 
-更新日期：2026-10-31。当前源码版本为 **0.1.3-alpha.1**，已公开发布 **[v0.1.3-alpha.1 预览版](https://github.com/DeathofBrain/maa-verge/releases/tag/v0.1.3-alpha.1)**；最新正式版仍为 **0.1.2**。工程和首批功能已落地，[PLAN.md](../PLAN.md) 中的完整产品与研究路线尚未全部交付。
+更新日期：2026-10-31。当前源码版本为 **0.1.3**，正在准备正式发行；已公开发布 **[v0.1.3-alpha.1 预览版](https://github.com/DeathofBrain/maa-verge/releases/tag/v0.1.3-alpha.1)**，最新正式版仍为 **0.1.2**。工程和首批功能已落地，[PLAN.md](../PLAN.md) 中的完整产品与研究路线尚未全部交付。
 
 默认进入主页仪表盘，汇总今日执行/完成、运行进度、最近记录、设备与三条独立组件版本；主页不包含任务表卡片、数量或新建/启动入口，侧栏不展开任务表列表。任务表统一从“任务”入口管理：列表 + 右侧详情抽屉保留逐任务设置和常驻运行条，执行监控为同页页签，开始执行不跳转；勾选任务表后由页头「运行」启动，每张表均可选择多台设备，已绑定表限绑定范围，未绑定表临时选择。执行监控统一列出在线与曾连接的离线设备，列表标题旁显示设备总数与执行中数量，已连接设备用绿色「已连接」标记，执行状态单独显示；点击设备后在下方查看当前任务表、作业或独立工具，再次点击收起；离线显示“已离线”，空闲与历史记录明确分开。任务表卡片执行中以「查看执行」为主操作，聚合本表当前全部运行设备，追加设备从更多菜单进入；设备卡日志及连接设置从右侧打开；底栏运行详情、日志、画面与多开执行向上展开，并通过底栏左侧设备选择器切换。支持设备多选停止及日志复制、导出和确认删除。产品显示名为 Maa Verge，GitHub 仓库为 [DeathofBrain/maa-verge](https://github.com/DeathofBrain/maa-verge)。六类独立工具与每日定时已接入，使用方法见 [工具箱与定时计划](toolbox-schedules.md)；独立作业中心已接入本地与 PRTS Plus 导入，完整原 MAA 兼容继续按功能矩阵验收。
+
+## 本次 CI 重构与 v0.1.3 发行准备（macOS arm64，2026-10-31）
+
+- CI 统一为版本 2 的 `full/code/native` 计划：日常文档或普通代码两个任务，原生边界四个任务，main 与手动完整检查六个任务。Linux application 合并完整业务、worker/CTest、Vite 与 UI；日常筛选既有 15 条 `@smoke`，完整模式运行全部 UI。移除领域映射、标题 AST 与 portable 排除表，保留 merge base、改名两端和未知输入完整执行。Cargo 构建缓存与依赖下载分离，按锁文件前缀恢复、实际检查或发行提交保存。
+- Windows/macOS 平台专项使用共同 19 文件加 Windows 2 / macOS 5 文件的正向清单；比初始方案多保留 Mirror酱更新回归，避免丢失已有真实跨平台路径问题的保护。工具、worker 与合成核心缺失直接失败；全量发行仍要求同 SHA、最新 attempt 中唯一且成功的 `full-validation`。
+- 策略共通校验与精确归一化重叠用例减少 83 项，Agent 解析夹具统一到 Agent 包后再减少 7 项，合计减少 90 项；20 组独立解析输入保留，后端适配与拒绝映射不变。UI 合并主导航、外链打开与失败恢复的重复断言，保留各页面 URL/桥接绑定及独立异步状态行为，未新增外观断言。
+- 固定 Node 24.22.0 / pnpm 10.20.0 / Bun 1.4.3 的本地 `pnpm check` 通过：工具 157 通过、1 平台条件跳过，契约 45/45，类型/生成/架构门禁、worker 工具 4/4、合成 CTest 4/4；完整业务 1630 通过、9 平台条件跳过、0 失败（88 文件），Rust fmt/严格 locked Clippy 与 Rust 69 通过、2 既有忽略，本机 macOS 打包夹具 6/6。另执行 `--platform --require-native`：24 文件、534 通过、1 既有条件跳过，没有因分组缺失夹具新增跳过。
+- 完整 Chromium UI 266/266（4 workers，3.6 分钟），日常实际入口 15/15（2 workers，28 秒）；调度、平台清单与发行拒绝门禁 22/22，actionlint 1.7.12、ShellCheck、格式及差异空白检查通过。日志位于忽略目录 `.cache/ci-refactor/`。
+- 八处应用版本同步为 0.1.3，Cargo 生成的锁文件仅更新本地应用版本，发行配置检查通过。重写 README 与版本说明，突出三平台与多模拟器、多设备执行，明确 Agent 将于 v1.0.0 推出、基建估算为草稿模块；更新九张使用中的截图并删除两张多余旧截图，历史验证截图链接固定到旧提交。所有新截图来自本机 Chromium + 合成 IPC，三平台图仅模拟界面差异，不代表对应宿主或真实设备验收。
+- 此前临时路径规范化与独立 DMG 夹具修复已在旧架构完整 [Checks 41194403192](https://github.com/DeathofBrain/maa-verge/actions/runs/41194403192) 四宿主通过。重构后的远端完整 Checks、签名构建、草稿资产与公开发布尚待本轮执行；没有连接真实设备、运行游戏或调用付费模型，最低系统与真实升级安装仍须单独验收。
 
 ## 本次 DMG 最终包校验与清理保护（macOS arm64，2026-10-31）
 
@@ -988,7 +998,7 @@
 - 执行入口默认显示监控总览，按每次执行展示任务表、设备、进度、反馈、耗时和独立停止；运行中与最近结束分区，支持状态筛选、搜索与页内实例启动。同一任务表在多个设备上分别显示，后台启动、顶部换设备、底部日志与任务结束均不抢走当前查看的详情；返回总览恢复位置与焦点，页签支持方向键。
 - 只有选中详情才串行请求逐任务结果，截图与实时画面仍按需读取。TypeScript 快照保留全部运行中执行及按创建顺序最近 100 条终态记录，避免长任务被其他设备的新记录挤出；所选记录移出摘要窗口时仍读取并显示最终结果。Python debug 参考仍保留原最近 100 条窗口，未在本轮扩展历史分页或调度。
 - 三个工作区类型、契约同步与前端生产构建通过；固定 Bun 1.4.3 完整后端回归 **937 项通过、2 项 Windows 不适用跳过、0 失败**，新增 3 项快照窗口回归。Edge 全量 119 项场景首次 118 项通过；另 1 项设备发现失败来自既有夹具缺少窗口生命周期接口，在未改界面的基线连续复现，补齐夹具后全部 8 项设备专项通过。新增 9 项监控场景全部通过，覆盖同表双设备、独立停止、筛选搜索、慢响应、后台启动/终态焦点隔离、摘要移出、滚动焦点与键盘操作。
-- 已检查 1440px 浅色、深色及 390px 窄窗的总览与详情，无横向溢出；[浅色总览](images/mock-execution-monitor.png)、[深色总览](images/mock-execution-monitor-dark.png)均为合成数据。验证使用独立工作树、端口、临时数据与合成设备/原生 fixture，未连接真实游戏、调用模型、下载组件或重建桌面安装包；macOS/Linux、原生 WebView 与真实多设备运行仍待对应环境验收。
+- 已检查 1440px 浅色、深色及 390px 窄窗的总览与详情，无横向溢出；[当时的浅色总览](https://github.com/DeathofBrain/maa-verge/blob/9391018931e27ecb4fa00710586132013a4c988c/docs/images/mock-execution-monitor.png)、[当时的深色总览](https://github.com/DeathofBrain/maa-verge/blob/9391018931e27ecb4fa00710586132013a4c988c/docs/images/mock-execution-monitor-dark.png)均为合成数据。验证使用独立工作树、端口、临时数据与合成设备/原生 fixture，未连接真实游戏、调用模型、下载组件或重建桌面安装包；macOS/Linux、原生 WebView 与真实多设备运行仍待对应环境验收。
 
 ### 本次面向 Release 用户的 README（文档，2026-10-23）
 
